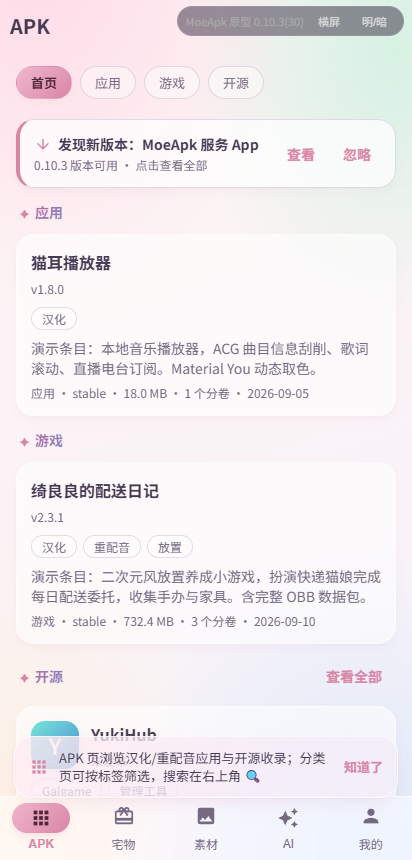
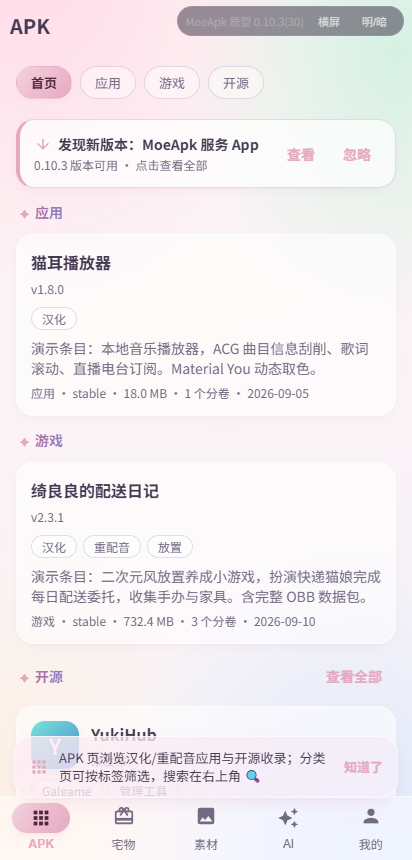
调整: 统一提亮主色与滑杆轨道

diff --git a/css/app.css b/css/app.css
@@ -14,7 +14,7 @@
 }
 :root {
   /* ---------- 品牌色板（取色自安卓娘） ---------- */
-  --c-pink: #D985A6;          /* 浅玫瑰粉 · 主色 */
+  --c-pink: #E5A8C0;          /* 浅玫瑰粉 · 主色 */
   --c-pink-deep: #B85B82;
   --c-pink-soft: #FFD6E6;
   --c-mint: #5FA58A;          /* 低饱和抹茶绿 · 辅助 */
@@ -25,7 +25,7 @@
   --c-cream: #FFF6EF;
 
   /* ---------- 渐变 ---------- */
-  --grad-primary: linear-gradient(135deg, #F0B8CC 0%, #D985A6 100%);
+  --grad-primary: linear-gradient(135deg, #F4D2DF 0%, #E5A8C0 100%);
   --grad-mint: linear-gradient(135deg, #9BCDB5 0%, #5FA58A 100%);
   --grad-text: linear-gradient(120deg, #C46890 10%, #8B7EC4 90%);
   --grad-hero: linear-gradient(118deg, #FFD9E8 0%, #DFF3EA 52%, #DCE8FB 100%);
@@ -46,7 +46,7 @@
   --on-primary: #4F2738;
   --primary-container: var(--c-pink-soft);
   --on-primary-container: #82314F;
-  --secondary-container: rgba(217,133,166,.14); /* 浅粉选中底 */
+  --secondary-container: rgba(229,168,192,.16); /* 浅粉选中底 */
   --on-secondary-container: #8E4D68;
   --error: #D64560;
   --on-error: #FFFFFF;
@@ -62,8 +62,8 @@
   --blur-chrome: saturate(1.5) blur(18px);
   --shadow-card: 0 4px 14px -6px rgba(200,90,145,.14), 0 1px 4px -2px rgba(110,80,140,.07);
   --shadow-float: 0 8px 22px -10px rgba(190,80,140,.20), 0 2px 8px -5px rgba(110,80,140,.10);
-  --glow-primary: 0 4px 10px -3px rgba(217,133,166,.26);
-  --glow-soft: 0 2px 8px -3px rgba(217,133,166,.18);
+  --glow-primary: 0 4px 10px -3px rgba(229,168,192,.26);
+  --glow-soft: 0 2px 8px -3px rgba(229,168,192,.18);
   --ring-focus: 0 0 0 3px rgba(233,78,138,.20);
 
   /* ---------- chrome 尺寸令牌（第十轮：顶栏 64→52 / 底栏 80→64 减薄） ---------- */
@@ -468,7 +468,22 @@ body.has-full .proto-bar { opacity: 0; pointer-events: none; transition: opacity
   background: var(--grad-primary); box-shadow: 0 0 8px rgba(233,78,138,.5);
 }
 .slider-row { display: block; padding: 10px 4px; }
-.slider { width: 100%; accent-color: var(--primary); margin-top: 8px; }
+.slider {
+  -webkit-appearance: none; appearance: none;
+  width: 100%; height: 6px; border-radius: 999px; margin-top: 10px;
+  background: linear-gradient(to right,
+    var(--c-pink) 0%, var(--c-pink) var(--fill, 50%),
+    #E7DFE8 var(--fill, 50%), #E7DFE8 100%);
+  outline: none;
+}
+.slider::-webkit-slider-thumb {
+  -webkit-appearance: none; appearance: none;
+  width: 16px; height: 16px; border: 0; border-radius: 50%;
+  background: var(--c-pink); box-shadow: none; cursor: pointer;
+}
+.slider::-moz-range-track { height: 6px; border-radius: 999px; background: #E7DFE8; }
+.slider::-moz-range-progress { height: 6px; border-radius: 999px; background: var(--c-pink); }
+.slider::-moz-range-thumb { width: 16px; height: 16px; border: 0; border-radius: 50%; background: var(--c-pink); box-shadow: none; cursor: pointer; }
 
 /* ---------- 进度条（渐变 + 流光） ---------- */
 .pbar { height: 6px; border-radius: 999px; background: var(--surface-highest); overflow: hidden; margin-top: 10px; border: 1px solid var(--outline-variant); }

diff --git a/js/screens/ai-llm.js b/js/screens/ai-llm.js
@@ -414,9 +414,11 @@
       const m = LLM_MODELS.find(x => x.id === S.x.lcId) || { name: S.x.lcId };
       const cfg = cfgOf(S.x.lcId);
       const ctx = contextChoices(m);
-      const sl = (label, k, min, max, step, fmt) =>
-        '<label class="slider-row"><span class="li-title">' + esc(label) + ' ' + fmt(cfg[k]) + '</span>' +
-        '<input type="range" min="' + min + '" max="' + max + '" step="' + step + '" value="' + cfg[k] + '" class="slider" data-live="lc-set" data-k="' + k + '"></label>';
+      const sl = (label, k, min, max, step, fmt) => {
+        const fill = Math.round((cfg[k] - min) / (max - min) * 100);
+        return '<label class="slider-row"><span class="li-title">' + esc(label) + ' ' + fmt(cfg[k]) + '</span>' +
+          '<input type="range" min="' + min + '" max="' + max + '" step="' + step + '" value="' + cfg[k] + '" class="slider" data-live="lc-set" data-k="' + k + '" style="--fill:' + fill + '%"></label>';
+      };
       let h = '<div class="dl-status" style="padding:8px 2px 0">当前模型：' + esc(m.name) + '</div>';
       h += card(
         // L8：系统提示词可编辑（原固定文案改为按模型可配）
@@ -462,6 +464,8 @@
   action('lc-set', (ds, el) => {
     const cfg = cfgOf(S.x.lcId); const k = ds.k;
     cfg[k] = +el.value;
+    const min = +el.min, max = +el.max;
+    el.style.setProperty('--fill', Math.round((el.value - min) / (max - min) * 100) + '%');
     const lb = el.parentElement.querySelector('.li-title');
     if (lb) {
       const base = lb.textContent.replace(/ [\d.]+$/, '');

diff --git a/tests/ai-llm-contract.test.js b/tests/ai-llm-contract.test.js
@@ -45,9 +45,11 @@ test('上下文按模型元数据开放到训练上限', () => {
 test('视觉令牌使用低饱和主色、轻量阴影和统一更新卡', () => {
   const css = read('css/app.css');
   const apk = read('js/screens/apk.js');
-  assert.ok(css.includes('--c-pink: #D985A6'));
-  assert.ok(css.includes('--grad-primary: linear-gradient(135deg, #F0B8CC 0%, #D985A6 100%)'));
+  assert.ok(css.includes('--c-pink: #E5A8C0'));
+  assert.ok(css.includes('--grad-primary: linear-gradient(135deg, #F4D2DF 0%, #E5A8C0 100%)'));
   assert.ok(css.includes('--on-primary: #4F2738'));
+  assert.ok(css.includes('#E7DFE8'));
+  assert.ok(css.includes('var(--fill, 50%)'));
   assert.ok(css.includes('--glow-primary: 0 4px 10px -3px'));
   assert.ok(!css.includes('box-shadow: var(--shadow-card), var(--glow-soft);'));
   assert.ok(apk.includes('class="update-icon"'));

diff --git a/js/screens/about.js b/js/screens/about.js
@@ -3,7 +3,7 @@
 // 原型版本约定：PROTO_COMMIT / PROTO_DATE 记录本原型自身的 git 提交，
 // 由维护者在每次提交前更新为当前 HEAD（提交者无需处理）。
 // App 关于页显示同形态的一行，值为其 UX 同步所依据的原型提交。
-const PROTO_COMMIT = '2706eb3';
+const PROTO_COMMIT = '99cc0d2';
 const PROTO_DATE = '2026-11-04';
 const PROTO_COMMIT_URL = 'https://github.com/Attect/moeapk-app-ux/commit/';
 

diff --git a/docs/design-notes.md b/docs/design-notes.md
@@ -54,7 +54,7 @@
 **起因**：真机反馈更新提示难辨认、顶部背景存在断层、阴影扩散到相邻控件、主色过饱和；同时 LLM 设置不能只给固定 8K 上限，需要允许用户按模型能力提升到训练上下文最大值。
 
 **定案**：
-1. **浅玫瑰粉主色**：亮色主色改为 `#D985A6`，主渐变改为 `#F0B8CC → #D985A6`；辅助绿/蓝/紫同步降饱和，暗色使用更柔和的粉紫。浅底按钮使用 `#4F2738` 深色文字，保证可读性；正文不做全局加白。**修订（同日反馈）**：低饱和不等于压暗，放弃 `#C46890` 中间方案，改为更浅、更有精神的粉调。
+1. **浅玫瑰粉主色**：亮色主色改为 `#E5A8C0`，主渐变改为 `#F4D2DF → #E5A8C0`；辅助绿/蓝/紫同步降饱和，暗色使用更柔和的粉紫。浅底按钮使用 `#4F2738` 深色文字，保证可读性；正文不做全局加白。滑杆填充段使用主色，未填充轨道使用 `#E7DFE8` 浅灰粉。**修订（同日反馈）**：低饱和不等于压暗，先后放弃 `#C46890`、`#D985A6` 中间方案，改为更浅、更有精神的粉调，并覆盖全部 Slider 页面。
 2. **更新提示统一为通知卡**：普通浅底 + 1px 细描边 + 左侧主题竖条 + 上行图标，取消专属重渐变和发光；不再与其它卡片争夺视觉层级。
 3. **阴影近场化**：card/float/glow 三层令牌统一减小 blur、offset、spread 和 alpha，保留玻璃层次但避免选中 chip、导航和消息气泡相互覆盖。
 4. **顶部连续背景**：页面与顶栏继续使用同一 mesh，不用独立顶栏底色；Compose 同步时系统状态栏显式匹配当前主题，避免透明区与页面背景断层。
